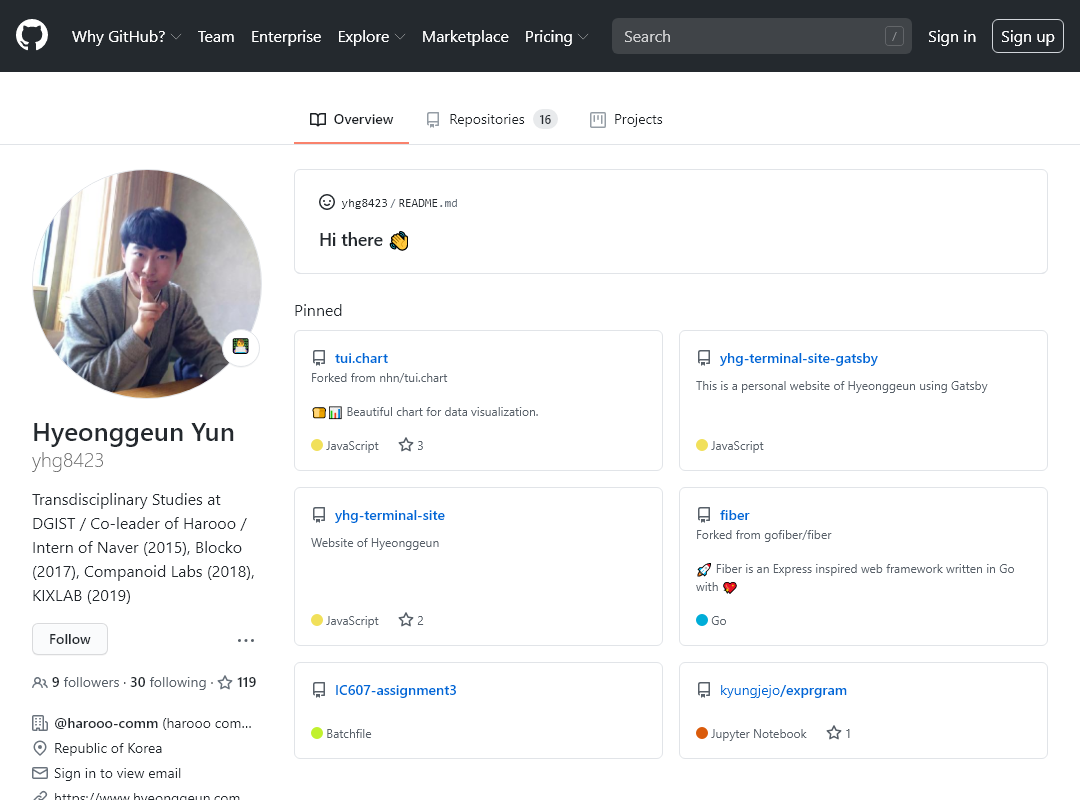
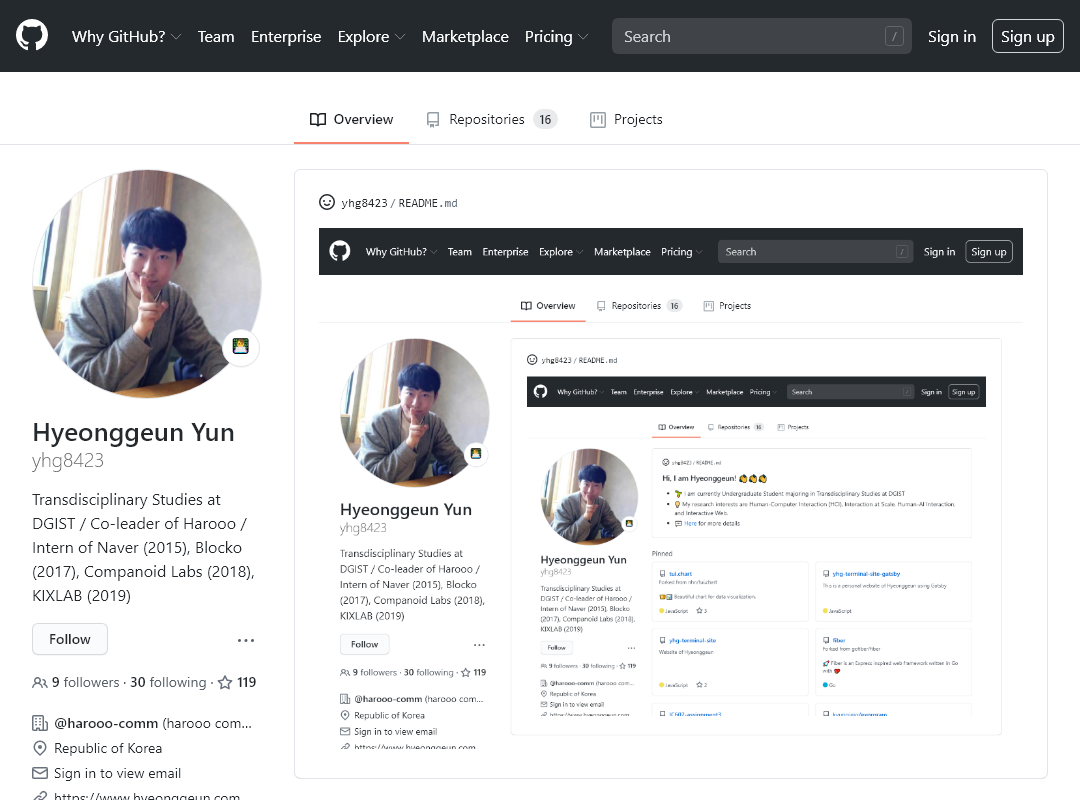
"adds new screenshot at depth 1"

diff --git a/README.md b/README.md
@@ -1,1 +1,1 @@
-![Woah!](https://github.com/yhg8423/yhg8423/blob/master/screenshot-2.png)
+![Woah!](https://github.com/yhg8423/yhg8423/blob/master/screenshot-1.png)
